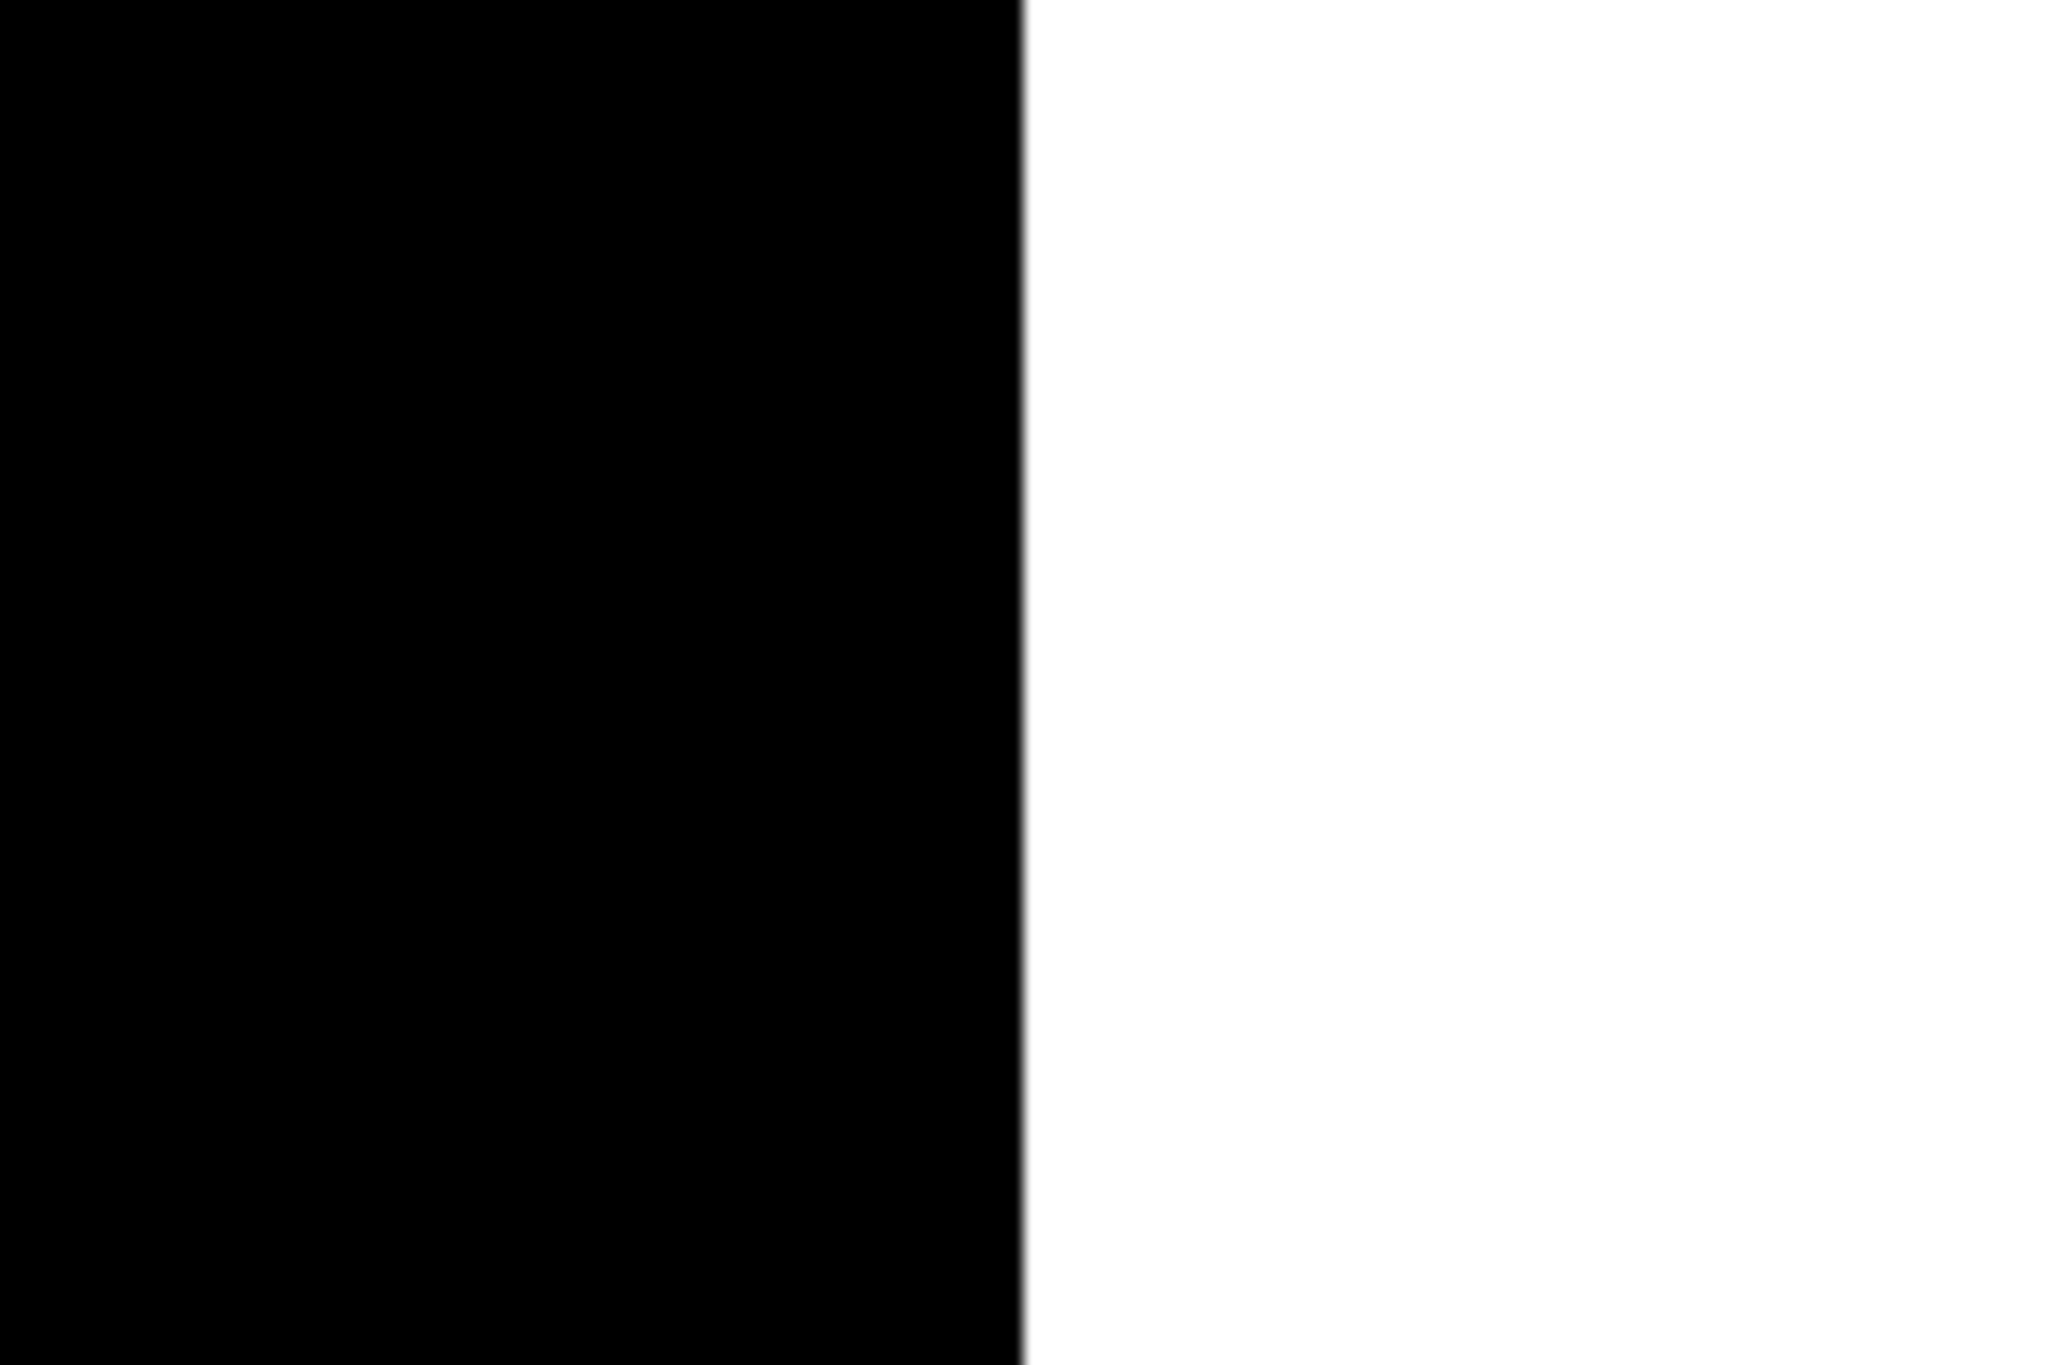
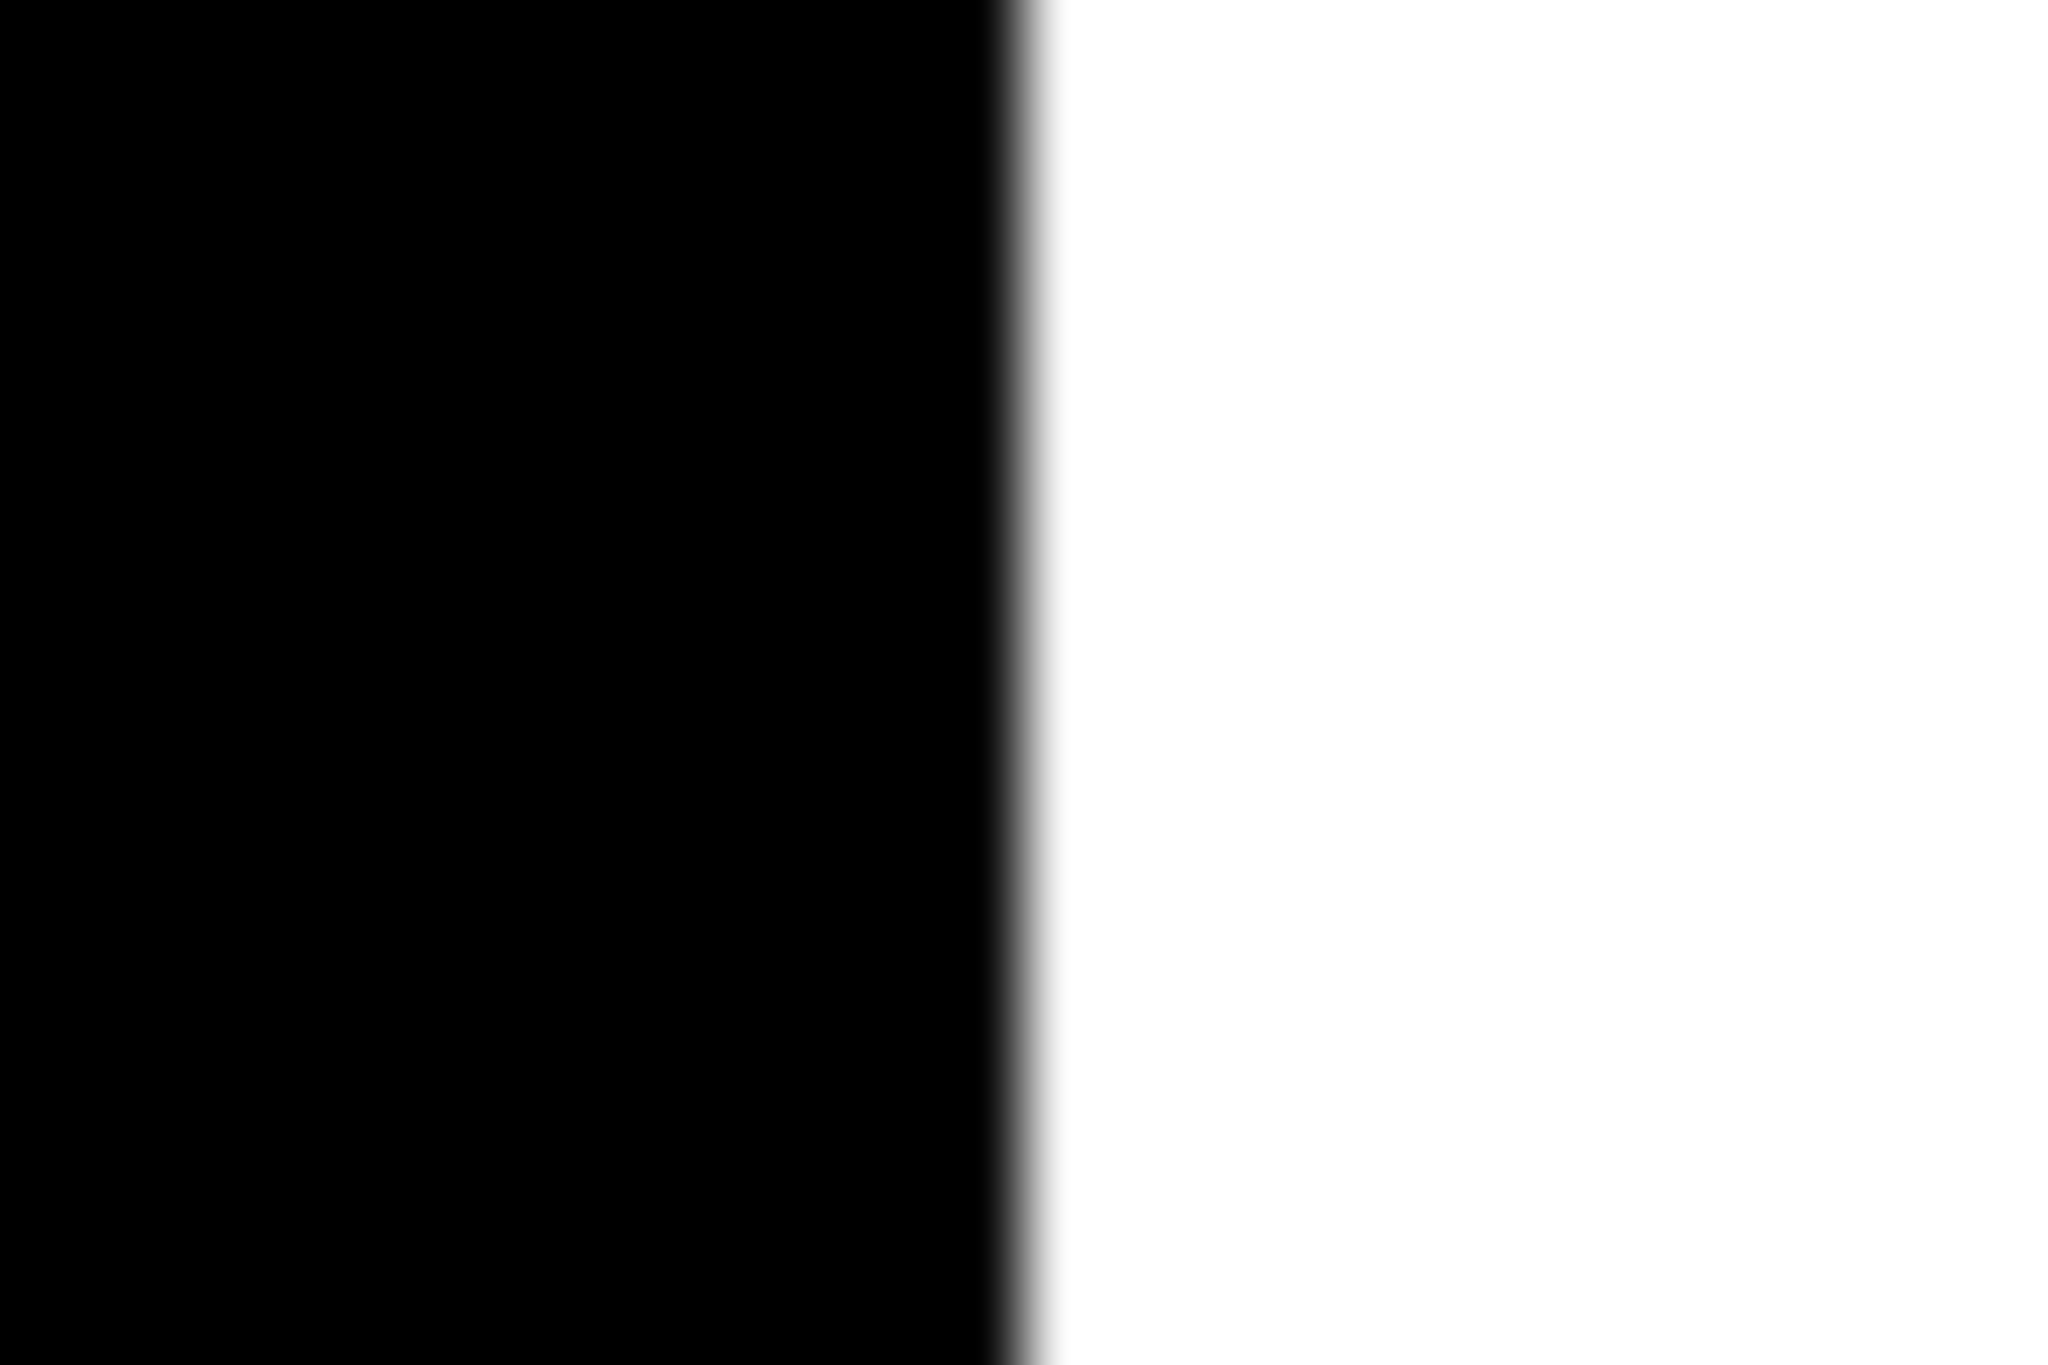
docs(README): add References section

Changed region(s): [[0.4688, 0.0, 0.5312, 1.0]]

diff --git a/src/cuda-multiband-blender.cpp b/src/cuda-multiband-blender.cpp
@@ -132,7 +132,7 @@ int main()
     
     // Create masks
     cv::Mat left_mask, right_mask;
-    const int overlap_cols = 20;
+    const int overlap_cols = 100;
     blend::masks::makeSoftMasks(left_img, right_img, left_mask, right_mask, overlap_cols);
 
     // Create ROI

diff --git a/README.md b/README.md
@@ -127,10 +127,14 @@ OpenCV Feather blend:
 
 ![Feather Result](results/feather_blend.png)
 
-Mask pyramid (left mask, Gaussian pyramid):
 
-![Mask Pyramid](results/pyramids/gauss_mask_0.png)
+## References
 
+This implementation is based on the classic paper:
+
+- Burt, P. J., & Adelson, E. H. (1983). *A Multiresolution Spline with Application to Image Mosaics*.  
+  ACM Transactions on Graphics, 2(4), 217–236.  
+  [https://doi.org/10.1145/245.247](https://doi.org/10.1145/245.247)
 
 
 
